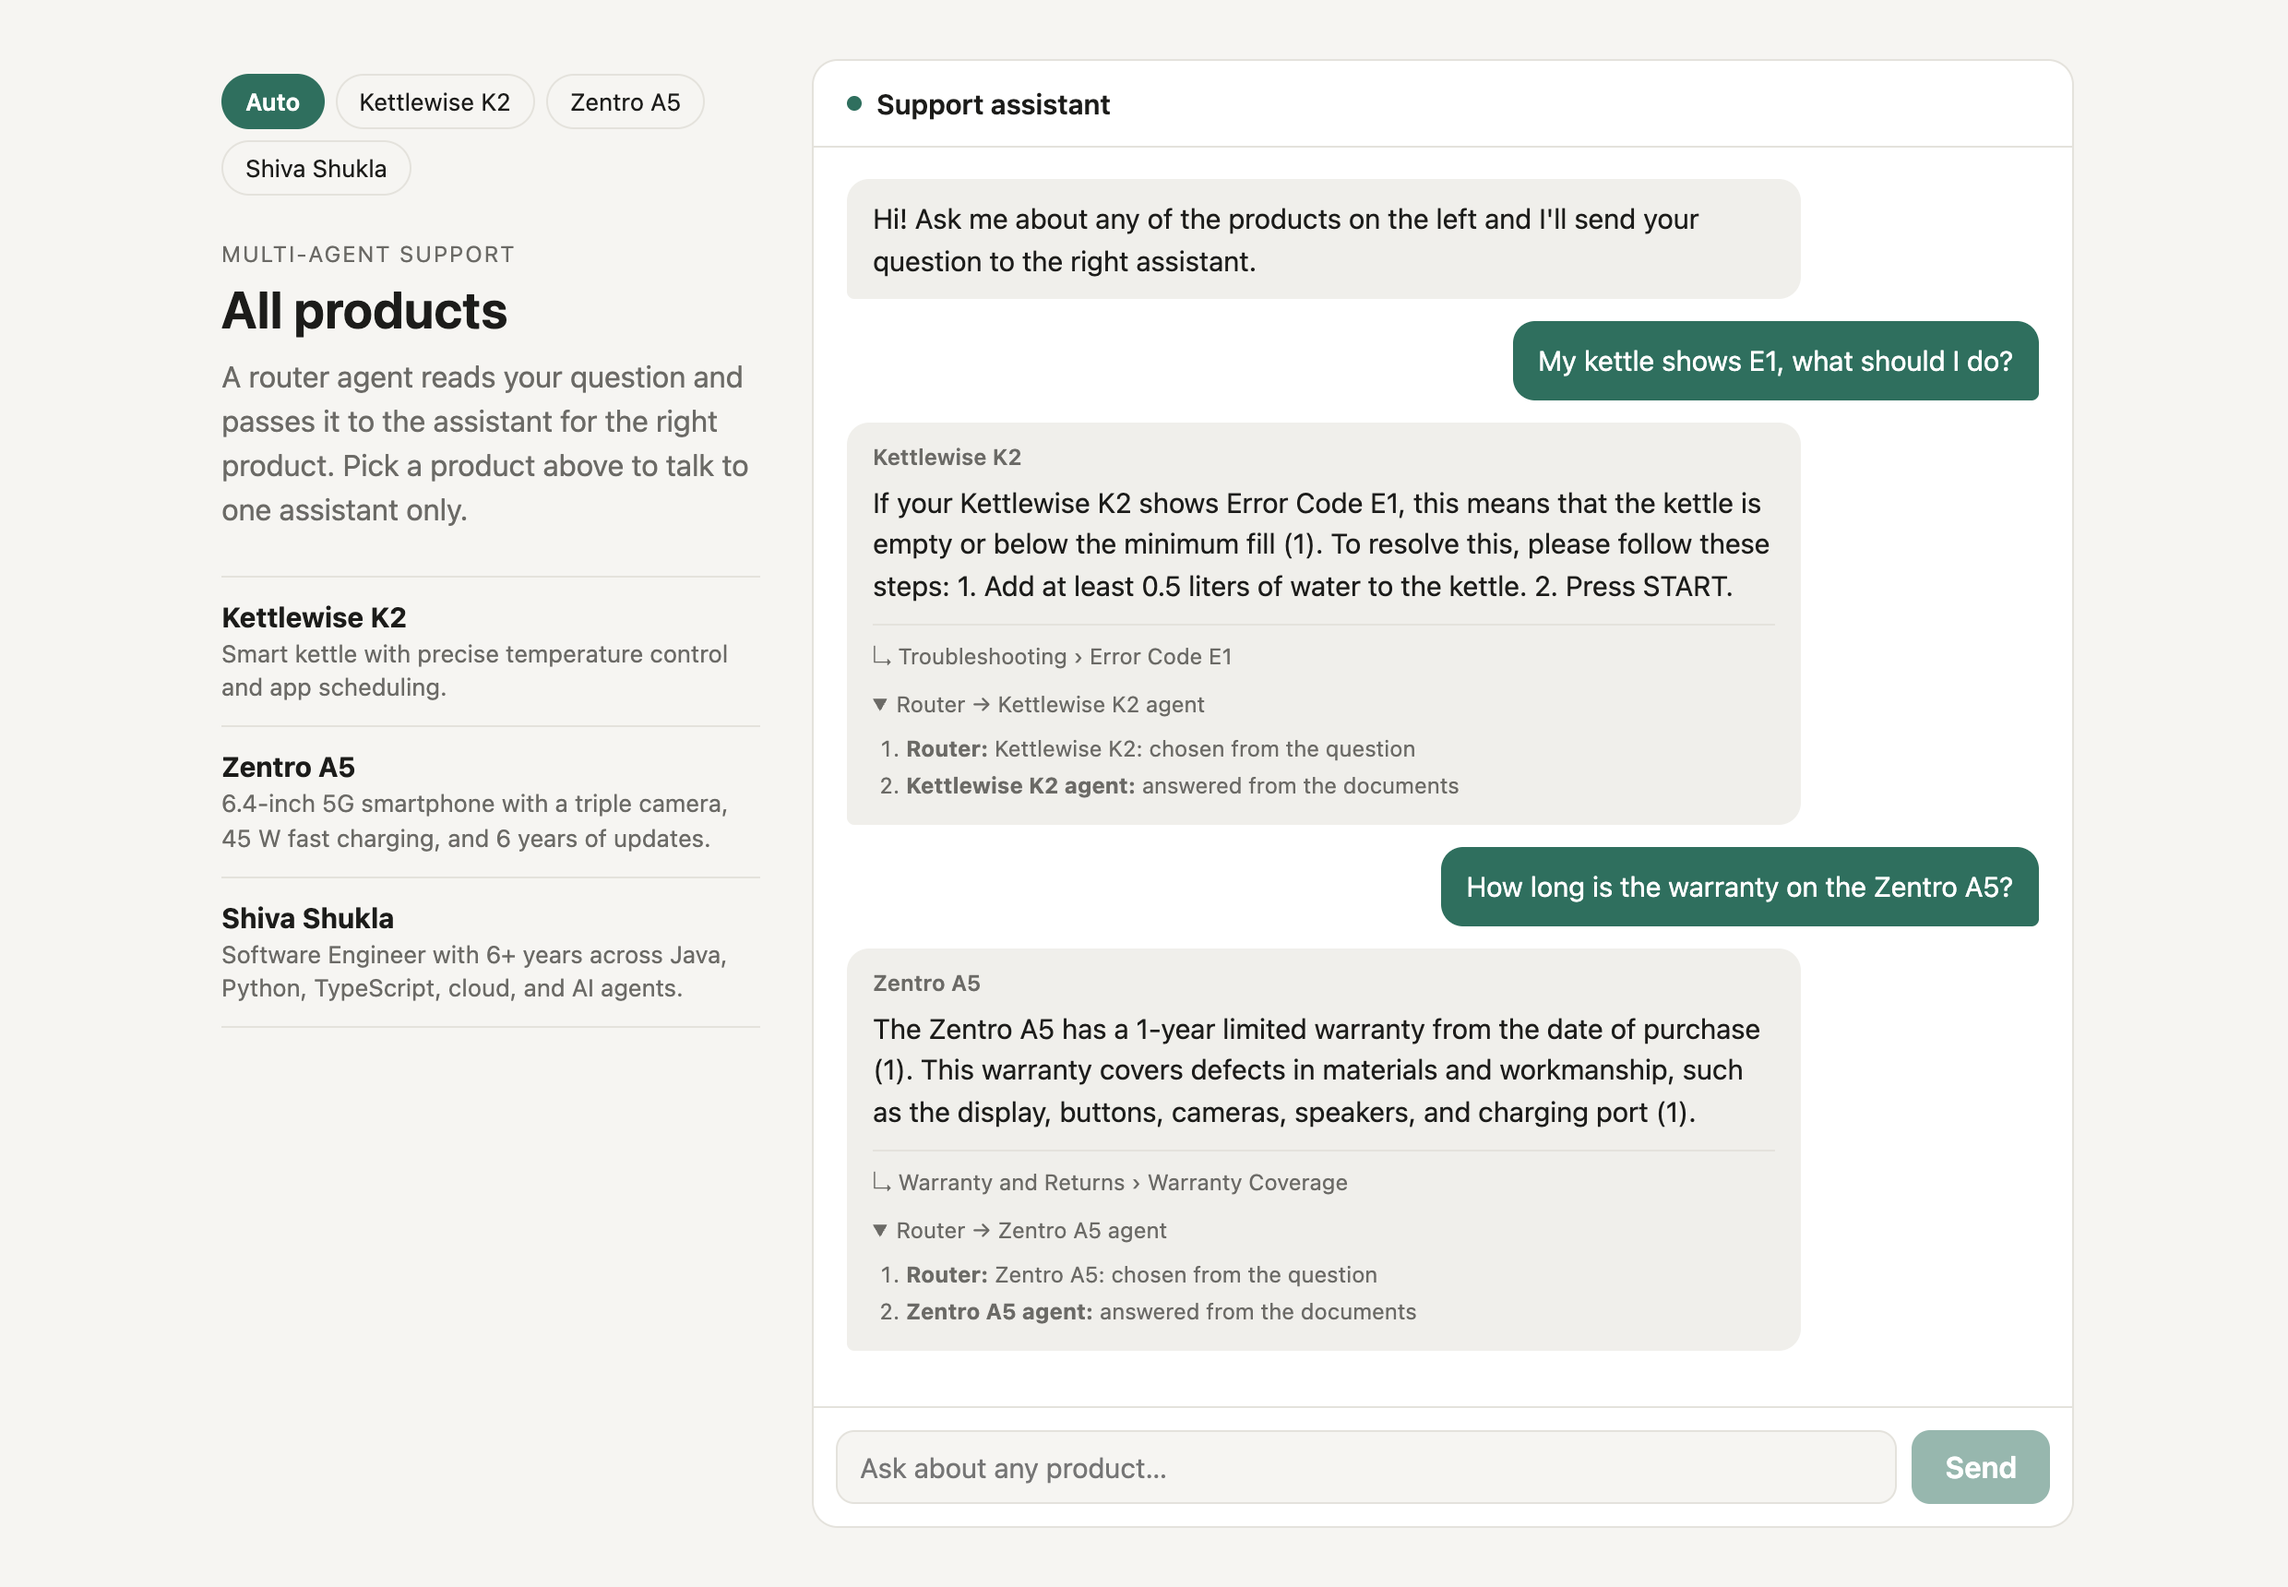
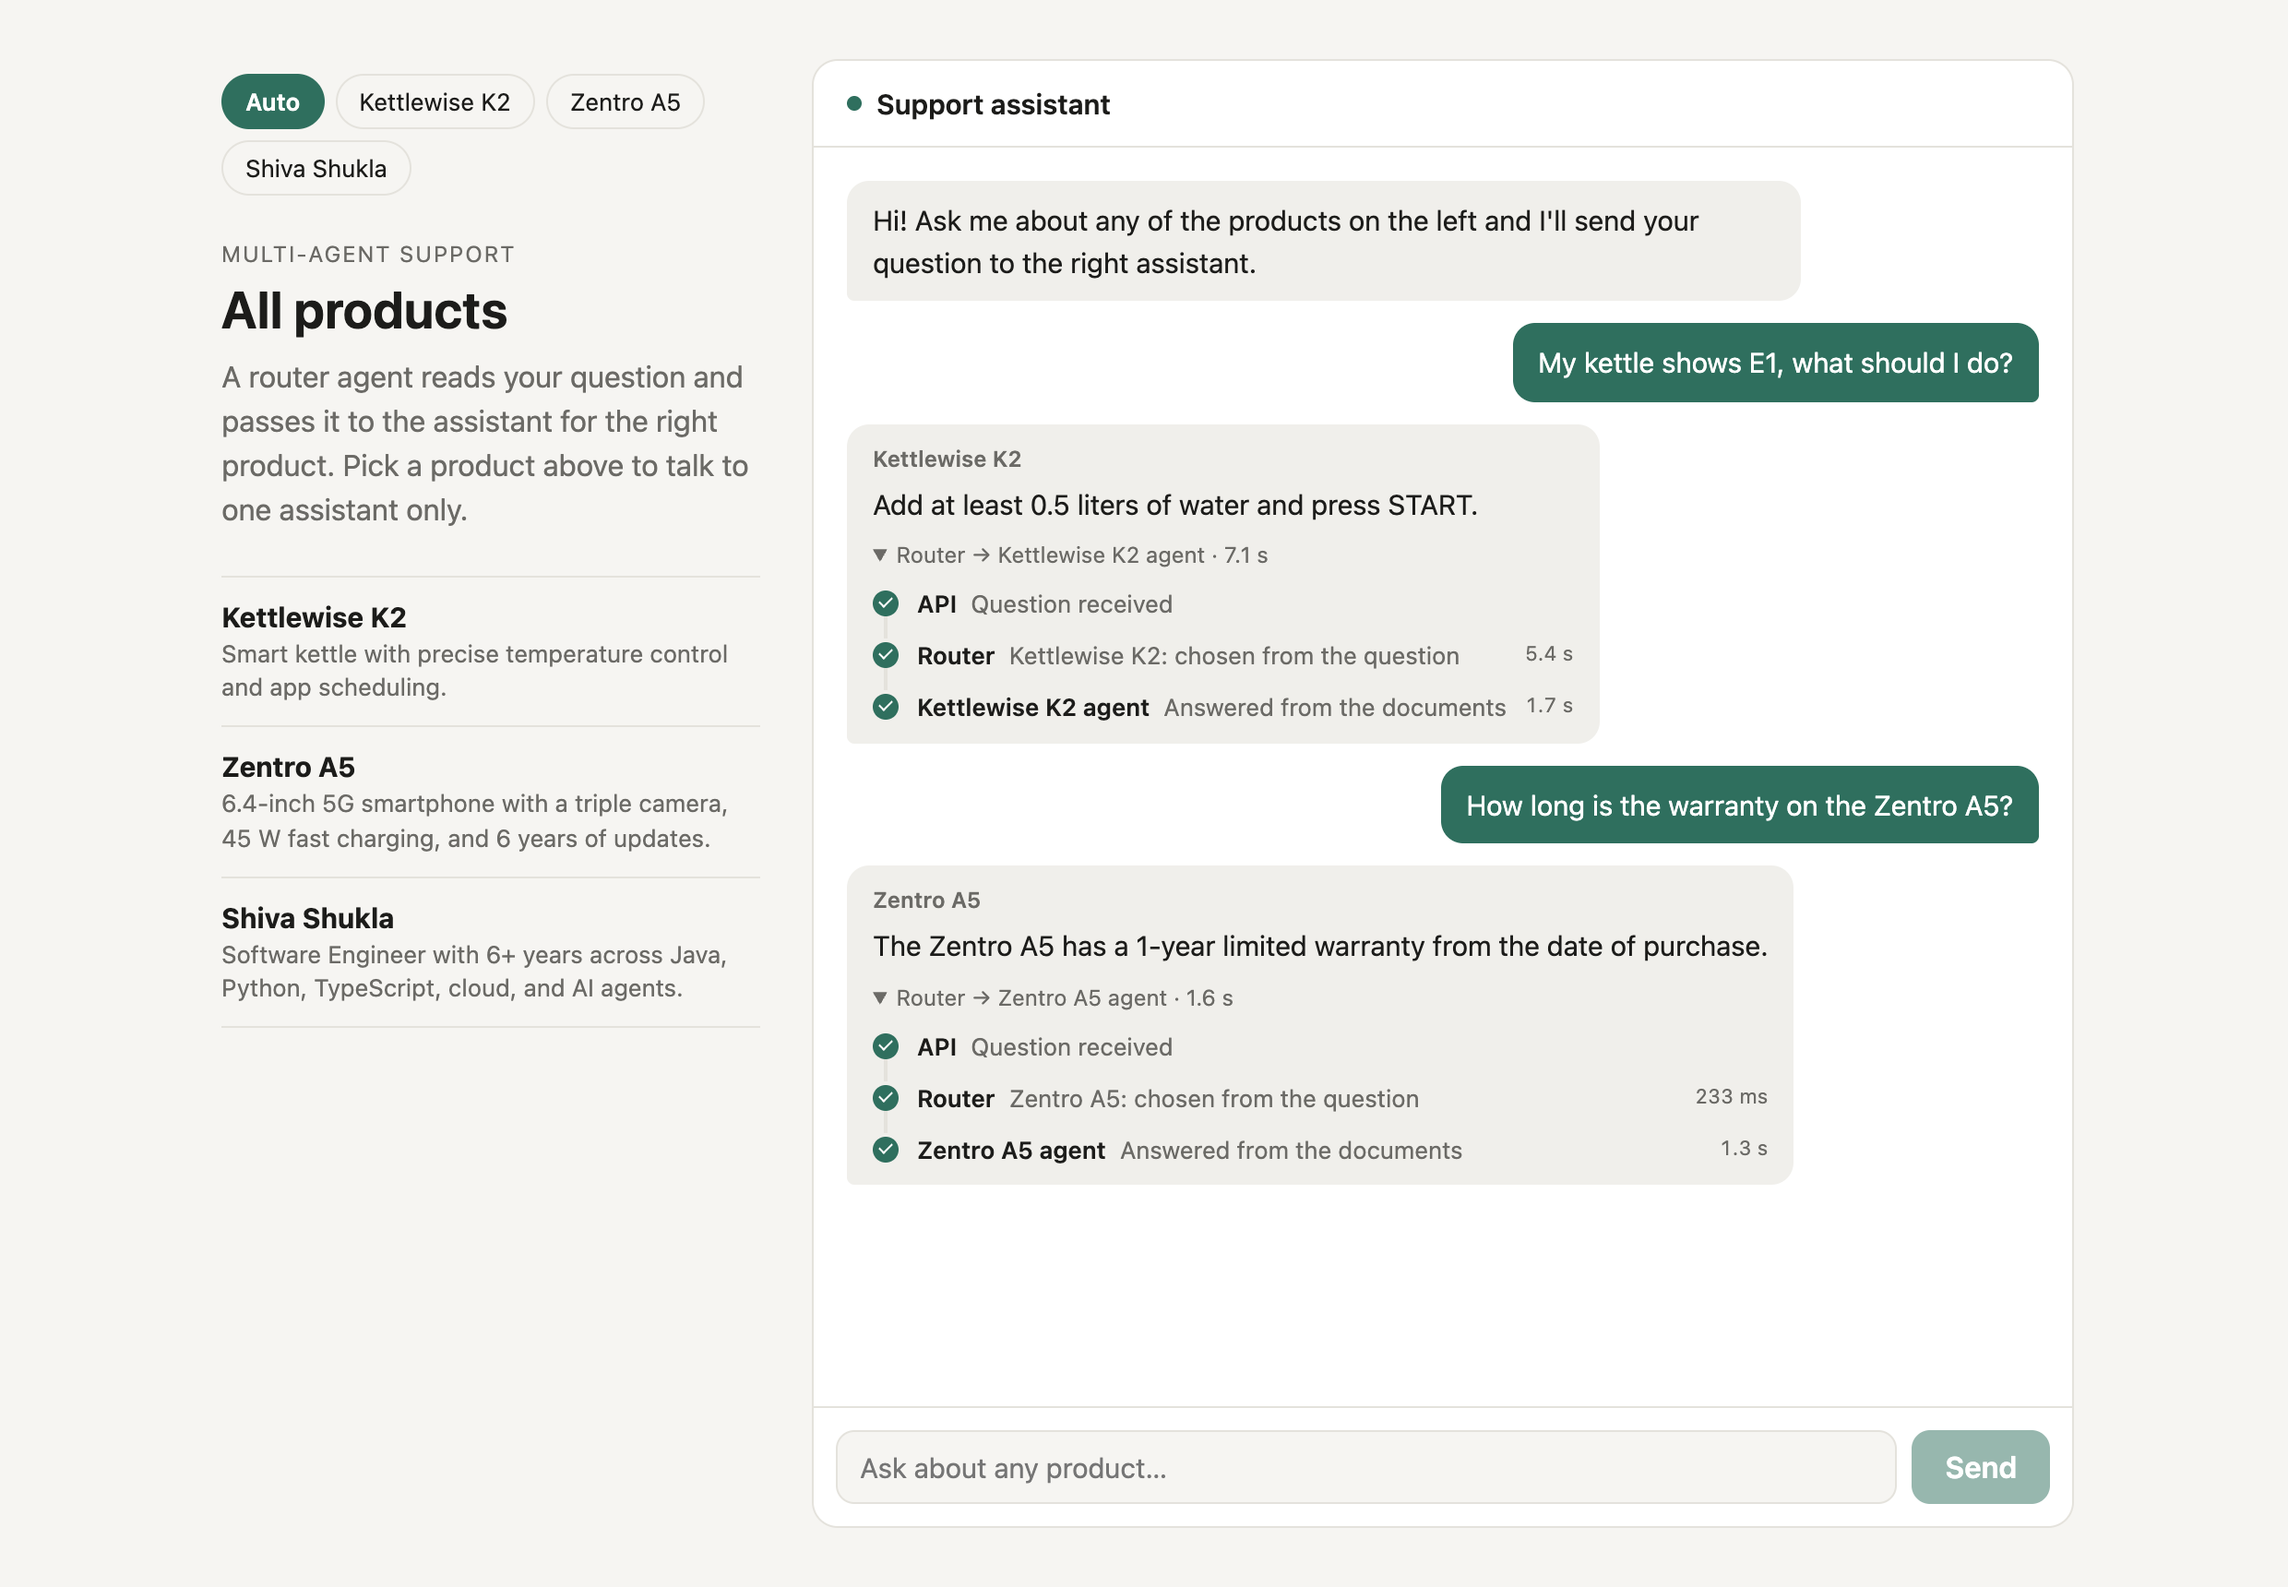
small documentation and default model changes. Also, removed unused code

diff --git a/frontend/src/App.jsx b/frontend/src/App.jsx
@@ -17,17 +17,6 @@ const AGENT_LABELS = {
   escalate: "Escalation",
 };
 
-// "user_manual.md#Descaling" -> "User Manual › Descaling"
-function formatCitation(id) {
-  const [file, section] = id.split("#");
-  const doc = file
-    .replace(/\.md$/, "")
-    .split("_")
-    .map((w) => (w === "and" ? w : w.charAt(0).toUpperCase() + w.slice(1)))
-    .join(" ");
-  return section ? `${doc} › ${section}` : doc;
-}
-
 // Merge one progress event into the activity list. Each agent gets one row: "running"
 // events update its text, and "done" marks it finished and records how long it took.
 function applyProgress(steps, ev) {
@@ -142,7 +131,6 @@ export default function App() {
         {
           role: "bot",
           text: data.answer,
-          citations: data.citations,
           escalated: !data.found,
           general: data.source === "general",
           productName: data.product_name,
@@ -260,13 +248,6 @@ export default function App() {
                 </p>
               )}
               <p>{msg.text}</p>
-              {msg.citations?.length > 0 && (
-                <ul className="sources">
-                  {msg.citations.map((c) => (
-                    <li key={c}>{formatCitation(c)}</li>
-                  ))}
-                </ul>
-              )}
               {msg.activity?.length > 0 && (
                 <details className="trace">
                   <summary>

diff --git a/frontend/src/App.css b/frontend/src/App.css
@@ -253,16 +253,6 @@ body { margin: 0; background: var(--bg); }
   .step.running .step-icon { animation-duration: 2.4s; }
 }
 
-.sources {
-  list-style: none;
-  margin: 10px 0 0;
-  padding: 8px 0 0;
-  border-top: 1px solid var(--border);
-  font-size: 12px;
-  color: var(--muted);
-}
-.sources li::before { content: "↳ "; }
-
 
 .suggestions { display: flex; flex-wrap: wrap; gap: 8px; padding: 0 18px 12px; }
 .suggestions button {

diff --git a/config.py b/config.py
@@ -8,7 +8,7 @@ load_dotenv()
 
 # Fully local setup: sentence-transformers for embeddings, Ollama for chat.
 EMBED_MODEL = os.getenv("EMBED_MODEL", "google/embeddinggemma-300m")
-CHAT_MODEL = os.getenv("CHAT_MODEL", "gemma4")  # any model from `ollama list`
+CHAT_MODEL = os.getenv("CHAT_MODEL", "llama3.2")  # any model from `ollama list`
 
 KB_DIR = "kb"  # one sub-folder per product: kb/<product>/
 INDEX_DIR = "index"  # one index per product:      index/<product>/

diff --git a/kb/resume/resume.md b/kb/resume/resume.md
@@ -43,9 +43,10 @@ Full-stack work with Python, Java, TypeScript, Lit, Azure, and SQL.
 - Co-developed a FastAPI application using LangChain and OpenAI LLMs to evaluate and rewrite software requirements as per INCOSE standards, reducing token costs by 25% and improving F1 score by 22% through prompt optimization.
 - Integrated an API in the RA plugin to send API metadata to Snowflake for faster failure triage.
 - Optimized stored procedures in a MySQL database, improving the GET API performance by 30%.
+- Utilized ThingWorx, JavaScript, Java, Spring Boot, RabbitMQ, and Azure to build a production-cycle analytics product with machine learning models that forecast output and detect the impact of equipment failures and machine faults, improving accuracy by 18%.
 
-## GlobalLogic - Software Engineer (Jul 2018 - Aug 2021)
-Role: Software Engineer at GlobalLogic, Noida, India, from Jul 2018 to Aug 2021.
+## GlobalLogic - Senior Software Engineer (Jul 2018 - Aug 2021)
+Role: Senior Software Engineer at GlobalLogic, Noida, India, from Jul 2018 to Aug 2021.
 Backend engineering with Java, Spring Boot, Spring WebFlux, and NoSQL.
 - Developed REST APIs for a learning platform using Java, Spring Boot, Reactive Streams, Kafka, and the Couchbase NoSQL database; added unit tests with JUnit, Mockito, and StepVerifier, improving code quality by 35% and test coverage by 40%.
 - Implemented Kafka with Spring Cloud Streams API and a retry mechanism to improve microservice reliability by 30%.
@@ -70,7 +71,7 @@ Prompt Engineering, Claude, and GitHub Copilot.
 - Built an Azure-based FastMCP gateway exposing registered agent tools via JSON-RPC 2.0 and REST APIs, with caching for agent discovery and routing (PTC Inc.).
 - Co-developed a FastAPI application using LangChain and OpenAI LLMs to evaluate and rewrite software requirements, reducing token costs by 25% and improving F1 score by 22% through prompt optimization (PTC Inc.).
 - Obfuscated 10+ core LLM algorithms using Cython for a private SaaS deployment, keeping latency within 3% of the Python baseline (PTC Inc.).
-- Used AI-assisted development tools (GitHub Copilot, Claude) to generate and debug test suites, raising RA test coverage from 30% to 80% (PTC Inc.).
+- Used AI-assisted development tools (GitHub Copilot, Claude Code) to generate and debug test suites, raising RA test coverage from 30% to 80% (PTC Inc.).
 
 ## Skills: Languages and Frameworks
 Languages: Java, Python, JavaScript, TypeScript, SQL, HTML5, CSS, React.
@@ -78,9 +79,7 @@ Frameworks: Hibernate, Spring Boot, Spring Cloud, JUnit, Mockito, TestNG, ShellS
 
 ## Skills: Cloud, DevOps, and Tools
 Cloud: Azure Kubernetes Service (AKS), Azure Storage, and AWS (S3, EC2, RDS, DynamoDB, Lambda, CloudWatch).
-Tools and technologies: GitLab, Jenkins, Git, Docker, Kubernetes, Apache Tomcat, Kafka, Zookeeper,
-Maven, Gradle, Agile, Linux, Microservices, Helm, Terraform, OpenTelemetry, Prometheus, Datadog,
-Snowflake, RESTful APIs, Swagger, GitHub Actions, Node.js.
+Tools and technologies: GitLab, Jenkins, Git, Docker, Kubernetes, Apache Tomcat, Kafka, Zookeeper, Maven, Gradle, Agile, Linux, Microservices, Helm, Terraform, OpenTelemetry, Prometheus, Datadog, Snowflake, RESTful APIs, Swagger, GitHub Actions, Node.js.
 
 ## Skills: Databases
 Couchbase, MySQL, PostgreSQL, and Redis.
@@ -89,8 +88,10 @@ stored procedures and used Postgres at PTC Inc., and added Redis caching to the 
 
 ## Skills: Security
 OAuth2, JWT, Spring Security, HashiCorp Vault, Wiz, Black Duck, Checkmarx, Invicti, and SonarQube.
-Shiva secured APIs and plugins with OAuth2/JWT and token rotation, and integrated HashiCorp Vault,
-Wiz, Black Duck, Invicti, and Checkmarx security scanning into CI/CD pipelines.
+Shiva secured APIs and plugins with OAuth2/JWT and token rotation, and integrated HashiCorp Vault, Wiz, Black Duck, Invicti, and Checkmarx security scanning into CI/CD pipelines.
+
+## Skills: AI
+Model Context Protocol (MCP), FastMCP, LangChain, LLM, LangGraph, Retrieval-Augmented Generation (RAG), Vector Search, Embeddings, AI Agents, Prompt Engineering, Claude Code, GitHub Copilot
 
 ## Education
 - George Mason University, Fairfax, VA: Master of Science in Computer Science, Aug 2021 - May 2023, GPA 3.93.

diff --git a/README.md b/README.md
@@ -8,7 +8,7 @@ A local, multi-agent RAG (retrieval-augmented generation) support bot built with
 | `phone` | The fictional *Zentro A5* smartphone | Gives general smartphone information from the chat model, with a notice that it didn't come from the docs |
 | `resume` | Shiva Shukla's professional background | Escalates (never guesses facts about a person) |
 
-Each agent answers only from its own docs and cites its sources. Everything runs on your machine: no API keys or usage costs.
+Each agent answers only from its own docs; the API also returns the document sections each answer used. Everything runs on your machine: no API keys or usage costs.
 
 ```
 question -> router -> kettle_agent | phone_agent | resume_agent -> answer from the docs
@@ -26,7 +26,7 @@ Print the real graph as a Mermaid diagram with `python graph.py`.
 
 ![Start screen in Auto mode, listing the three products](docs/screenshots/01-auto-home.png)
 
-**Routing.** Two questions in one conversation go to two different agents. Each reply shows which agent answered, the document sections it cited, and the steps the agents took.
+**Routing.** Two questions in one conversation go to two different agents. Each reply shows which agent answered and the steps the agents took, with how long each step ran.
 
 ![The router sends a kettle question to the kettle agent and a phone question to the phone agent](docs/screenshots/02-auto-routing.png)
 
@@ -34,9 +34,9 @@ Print the real graph as a Mermaid diagram with `python graph.py`.
 
 ![A phone answer from the docs, followed by a labelled general-information answer](docs/screenshots/03-phone-general-fallback.png)
 
-**Resume and escalation.** The resume agent answers from the resume and cites the sections it used. When the resume doesn't cover a question, it declines instead of guessing.
+**Resume and escalation.** The resume agent answers from the resume. When the resume doesn't cover a question, it declines instead of guessing.
 
-![A resume answer with citations, followed by an escalation for a question the resume doesn't cover](docs/screenshots/04-resume-and-escalation.png)
+![A resume answer, followed by an escalation for a question the resume doesn't cover](docs/screenshots/04-resume-and-escalation.png)
 
 | Part | Tool |
 |---|---|
